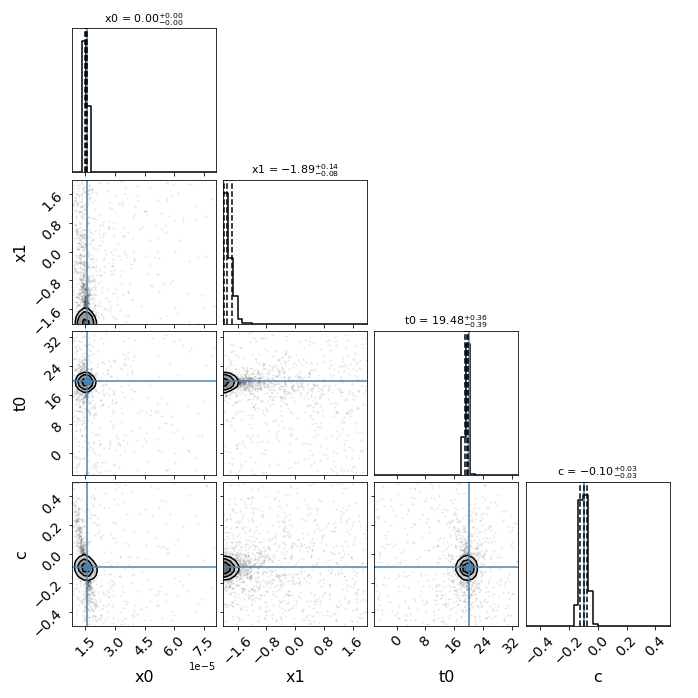
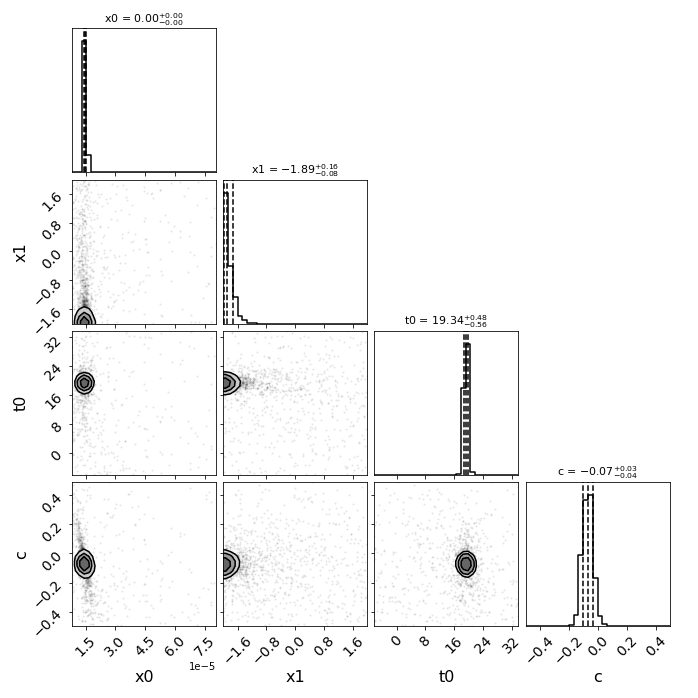
added unresolved fitting

diff --git a/sntd/models.py b/sntd/models.py
@@ -1,5 +1,6 @@
 import sncosmo
 import numpy as np
+from copy import copy
 from astropy.table import Table
 from scipy.interpolate import CubicSpline, interp1d
 from sncosmo.utils import integration_grid
@@ -7,9 +8,106 @@ from sncosmo.constants import HC_ERG_AA, MODEL_BANDFLUX_SPACING
 from scipy.stats import exponnorm
 from collections import Counter
 
+__all__ = ['unresolvedMISN']
 
-__all__ = ['BazinSource']
+class unresolvedSource(sncosmo.Source):
+    def __init__(self,model_list):
+        super(unresolvedSource, self).__init__()
+        self.source_list = [model._source for model in model_list]
+        self.name = self.source_list[0].name
+        self.version = self.source_list[0].version
+        self._phase = self.source_list[0]._phase
+        self._wave = self.source_list[0]._wave
+        self._parameters = self.source_list[0]._parameters
+        self._param_names = self.source_list[0]._param_names
+        self.param_names_latex = self.source_list[0].param_names_latex
+        try:
+            self._model_flux = self.source_list[0]._model_flux
+            self._zero_before = self.source_list[0]._zero_before
+        except:
+            pass
 
+    def _flux(self,phase,wave):
+        return(np.sum([source._flux(phase,wave) for source in self.source_list],axis=0))
+
+class unresolvedMISN(sncosmo.Model):
+    """
+    Wrapper class of SNCosmo.Model to provide support for unresolved lensed SN fitting.
+    """
+    def __init__(self,curve_models,delays=None,magnifications=None):
+        """
+        Parameters
+        ----------
+        curve_models: list of `~sncosmo.Model`
+            List of models representing each (unresolved) image
+        delays: list of float
+            A list of relative delays between models
+        magnifications: list of float
+            A list of relative magnifications between models
+        """
+        super(unresolvedMISN, self).__init__(curve_models[0]._source)
+        self.model_list=curve_models
+        self._source = unresolvedSource(self.model_list)
+        if delays is not None:
+            self.set_delays(delays)
+        if magnifications is not None:
+            self.set_magnifications(magnifications)
+        self.delays = delays
+        self.magnifications = magnifications
+        self.nparams = len(self.param_names)
+        self.current_parameters = np.array(list(self._parameters))
+        self.param_indices = {p:self.param_names.index(p) for p in self.param_names}
+
+    def __copy__(self):
+        new = unresolvedMISN([copy(model) for model in self.model_list],self.delays,self.magnifications)
+        new._parameters = self._parameters.copy()
+        return new
+
+    def set_delays(self,delays):
+        """
+        Set the relative delays between blended image models. 
+
+        Parameters
+        ----------
+        delays: list of float
+            A list of relative delays between models
+        """
+        if len(delays) != len(self.model_list):
+            print('Cannot set delays, must match length of model list.')
+        for i in range(len(delays)):
+            self.model_list[i].parameters[1] += delays[i]
+
+    def set_magnifications(self,magnifications):
+        """
+        Set the relative magnifications between blended image models. 
+
+        Parameters
+        ----------
+        magnifications: list of float
+            A list of relative magnifications between models
+        """
+        if len(magnifications) != len(self.model_list):
+            print('Cannot set magnifications, must match length of model list.')
+        for i in range(len(magnifications)):
+            self.model_list[i].parameters[2] *= magnifications[i]
+
+    def _flux(self,phase,wave):
+        self.set(**{self.param_names[i]:self.parameters[i] for i in range(self.nparams)})
+        return(np.sum([model._flux(phase,wave) for model in self.model_list],axis=0))
+
+    def set(self,**param_dict):
+        for key in param_dict.keys():
+            if key == 't0':
+                for model in self.model_list:
+                    model.parameters[1] += (param_dict[key]-self.current_parameters[self.param_indices[key]])
+            elif key == self.param_names[2]:
+                for model in self.model_list:
+                    model.parameters[2] *= (param_dict[key]/self.current_parameters[self.param_indices[key]])
+            else:
+                for model in self.model_list:
+                    model.update({key:param_dict[key]})
+        self.update(param_dict)
+        self.current_parameters[:] = self.parameters
 
 def _param_to_source(source, wave, color_curve=None, band1=None, band2=None, ref_color=False):
     band = None

diff --git a/sntd/fitting.py b/sntd/fitting.py
@@ -27,7 +27,7 @@ from collections import OrderedDict
 from .util import *
 from .util import _filedir_, _current_dir_
 from .curve_io import _sntd_deepcopy
-from .models import *
+from .models import BazinSource
 from .ml import *
 
 __all__ = ['fit_data']
@@ -46,7 +46,7 @@ def fit_data(curves=None, snType='Ia', bands=None, models=None, params=None, bou
              dust=None, microlensing=None, fitOrder=None, color_bands=None, color_param_ignore=[], min_points_per_band=3, identify_micro=False,
              min_n_bands=1, max_n_bands=None, n_cores_per_node=1, npar_cores=4, max_batch_jobs=199, max_cadence=None, fit_colors=None,
              fit_prior=None, par_or_batch='parallel', batch_partition=None, nbatch_jobs=None, batch_python_path=None, n_per_node=None, fast_model_selection=True,
-             wait_for_batch=False, band_order=None, set_from_simMeta={}, guess_amplitude=True, trial_fit=True, clip_data=False, use_MLE=False,
+             wait_for_batch=False, band_order=None, set_from_simMeta={}, guess_amplitude=True, trial_fit=False, clip_data=False, use_MLE=False,
              kernel='RBF', refImage='image_1', nMicroSamples=100, color_curve=None, warning_supress=True,
              micro_fit_bands='all', verbose=True, **kwargs):
     """The main high-level fitting function.
@@ -2606,7 +2606,7 @@ def _fitparallel(all_args):
                                     effect_names=effect_names, effect_frames=effect_frames)
         else:
             tempMod = copy(mod)
-
+        
         tempMod.set(**{k: args['constants'][k]
                        for k in args['constants'].keys() if k in tempMod.param_names})
         if args['set_from_simMeta'] is not None:
@@ -2708,7 +2708,6 @@ def _fitparallel(all_args):
                                    rstate=args.get('rstate', None), guess_amplitude_bound=False,
                                    zpsys=args['curves'].images[args['fitOrder'][0]].zpsys,
                                    maxiter=args.get('maxiter', None), npoints=args.get('npoints', 100))
-
         all_fit_dict[mod] = [copy(fit), copy(res)]
 
         if finallogz < res.logz:

diff --git a/sntd/test_sntd.py b/sntd/test_sntd.py
@@ -106,7 +106,7 @@ class TestFitting(unittest.TestCase):
                                   method='color', microlensing=None, maxcall=None, npoints=25, minsnr=0,
                                   set_from_simMeta={'z': 'z'}, t0_guess={'image_1': 20, 'image_2': 70},verbose=False)
 
-
+    	
 class TestCosmology(unittest.TestCase):
     """
     Test SNTD cosmology tools.

diff --git a/sntd/curve_io.py b/sntd/curve_io.py
@@ -1238,7 +1238,7 @@ class MISN(dict):
         return fig
 
 
-def table_factory(tables, telescopename="Unknown", object_name=None):
+def table_factory(tables, telescopename="Unknown", object_name='Unknown'):
     """This function will create a new curve object using an astropy table or tables.
 
     Parameters

diff --git a/sntd/__init__.py b/sntd/__init__.py
@@ -6,6 +6,7 @@ from .fitting import *
 from .ml import *
 from .survey_cosmo import Survey
 from .util import load_example_data, load_example_misn
+from .models import unresolvedMISN
 
 import sncosmo
 sncosmo.Model._flux = _mlFlux

diff --git a/docs/source/examples.rst b/docs/source/examples.rst
@@ -275,3 +275,83 @@ Out::
     :align: center
     :height: 600px
     :alt: alternate text
+
+
+***************************
+Unresolved Lensed SN Models
+***************************
+
+SNTD now includes an option for fitting unresolved multiply-imaged light curves. Here is an example of an unresolved light curve of a doubly-imaged SN Ia:
+
+.. image:: _static/unresolved.png
+    :width: 600px
+    :align: center
+    :height: 600px
+    :alt: alternate text
+
+
+This object has only a single image, whose table is the combined light curve shown above. Simply create SNCosmo models for each blended image, and combine them in the following way:
+
+.. code-block:: python
+
+    image_1 = sncosmo.Model('salt2-extended')
+	image_2 = sncosmo.Model('salt2-extended')
+	unresolved=sntd.unresolvedMISN([image_1,image_2])
+
+You can set the time delays and magnifications with two simple functions:
+
+.. code-block:: python
+
+    unresolved.set_delays([10,55])
+	unresolved.set_magnifications([4,1])
+	print(unresolved.model_list[0].parameters)
+	print(unresolved.model_list[1].parameters)
+
+Out::
+
+    [ 0. 10. 4. 0. 0. ]
+    [ 0. 55. 1. 0. 0. ]
+
+You may now set parameters as you would for a normal model. SN parameters (i.e. z, x1, c, etc.) will set across all models, "lens" parameters (i.e. t0, x0/amplitude, etc.) will shift each model by that amount. For example (note the time delays above):
+
+.. code-block:: python
+
+	unresolved.set(z=1.4)
+	unresolved.set(t0=10)
+	print(unresolved.parameters)
+	print(unresolved.model_list[0].parameters)
+	print(unresolved.model_list[1].parameters)
+
+Out::
+
+    [ 1.4 10.   1.   0.   0. ]
+    [ 1.4 20.   4.   0.   0. ]
+    [ 1.4 65.   1.   0.   0. ]
+
+Now this unresolved model can be simply used in the SNTD fitting methods as normal:
+
+.. code-block:: python
+
+    fitCurves=sntd.fit_data(combined_MISN,snType='Ia',models=unresolved,bands=['F110W','F160W'],
+                        params=['x0','x1','t0','c'],constants={'z':1.4},
+        				bounds={'t0':(-20,20),'x1':(-2,2),'c':(-.5,.5)},
+        				method='parallel',npoints=100)
+
+    print(list(zip(fitCurves.images['image_1'].fits.model.param_names,
+	  fitCurves.images['image_1'].fits.model.parameters)))
+    fitCurves.plot_object()
+    plt.show()
+
+Out::
+
+    [('z', 1.4), ('t0', 0.030856743802949414), ('x0', 1.361414978820235e-05), ('x1', -1.96606343354532), ('c', 0.09777031933936466)]
+
+.. image:: _static/unresolved_fit.png
+    :width: 600px
+    :align: center
+    :height: 600px
+    :alt: alternate text
+
+Here the true parameters were t0=0 (the input time delays were correct, and t0 is fitting for a global offset in the model), x1=-2, c=.09, and x0 is somewhat arbitrary here as the magnifications were also correct based on the sim. 
+
+Note that you can add individual propagation effects to each images model at the outset (such as lens plane dust or microlensing models), or you could add a single propagation effect to the unresolved model that will impact the combined model (such as host galaxy dust).

diff --git a/docs/source/api.rst b/docs/source/api.rst
@@ -17,6 +17,7 @@ Summary
 	sntd.curve_io.table_factory
 	sntd.ml.realizeMicro
 	sntd.ml.microcaustic_field_to_curve
+	sntd.models.unresolvedMISN
 
 |
 
@@ -59,4 +60,11 @@ Microlensing
 ************
 
 .. automodule:: sntd.ml
+   :members:
+
+******
+Models
+******
+
+.. automodule:: sntd.models
    :members:
